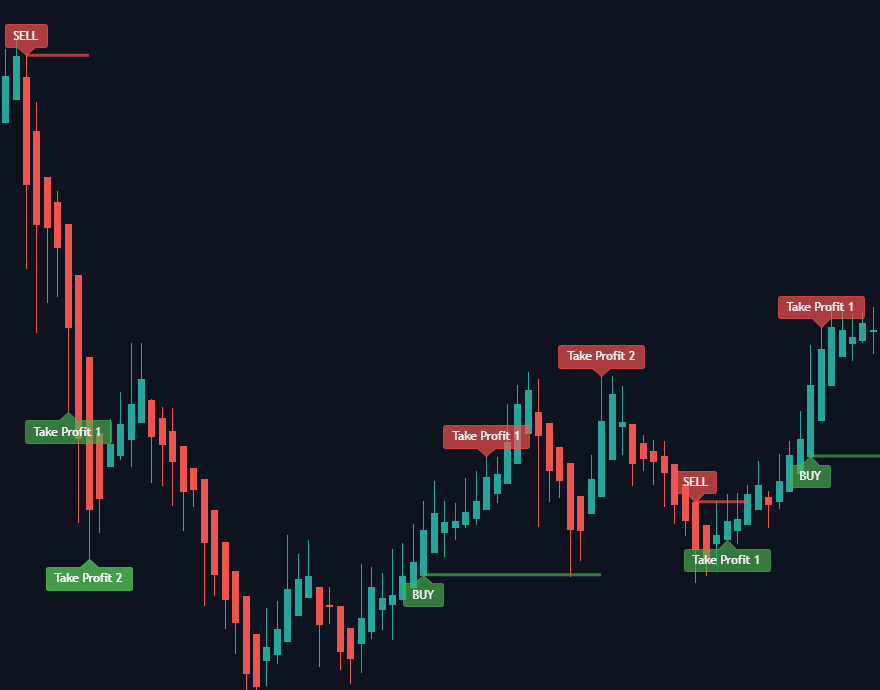
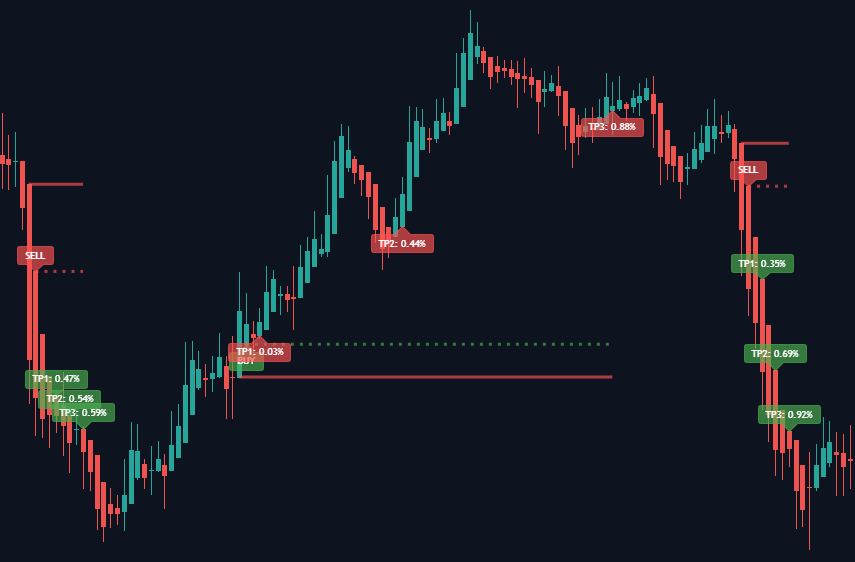
Update website for v3 Size down images, use imgur

Changed region(s): [[0.0, 0.0302, 1.0, 1.0]]

diff --git a/frontend/src/pages/HomePage.tsx b/frontend/src/pages/HomePage.tsx
@@ -1,8 +1,7 @@
 import React, { useContext, useEffect } from 'react';
-import { AnimationOnScroll } from 'react-animation-on-scroll';
 import styled from 'styled-components';
 import ReasonBlock from '../components/ReasonBlock';
-import { DISCORD_URL, NAME } from '../globals';
+import { DISCORD_URL, FREE_TRIALS_ACTIVE, NAME } from '../globals';
 import { Box, Button, Icon, IconEnum, ThemeContext } from '../Jet';
 
 
@@ -37,7 +36,7 @@ const PageStyle = styled.div.attrs((props: any) => props)`
   }
 
   .profits-img {
-    max-width: 700px;
+    max-width: 500px;
   }
 
   .brands img {
@@ -66,12 +65,6 @@ const PageStyle = styled.div.attrs((props: any) => props)`
       p {
         max-width: 100% !important;
       }
-    }
-
-    .stop-img {
-      max-height: 200px;
-      max-width: 350px;
-      width: auto;
     }
 
     .phone-img {
@@ -143,7 +136,8 @@ export const HomePage = () => {
             <h1 className="welcome-text text-primary">{NAME}</h1>
           </div>
 
-          <p>The most accurate real-time trading indicator.</p>
+          <p>The most accurate real time trading indicator.</p>
+          {FREE_TRIALS_ACTIVE && <p>Try it for free for 7 days.</p>}
 
           <Box spacing="1rem" className="action-buttons">
             <Button className="background-primary" onClick={() => window.location.href = '#/pricing'} large glowing><div style={{ color: theme.colors.text[0] }}>Get Access</div></Button>
@@ -157,8 +151,6 @@ export const HomePage = () => {
       </Box>
 
       <Box className="container" flexDirection="column" style={{ padding: '4rem 6rem', marginTop: '1rem', backgroundColor: theme.colors.background[1] }} justifyContent="space-around" alignItems="center" spacing="1.6rem">
-        <h5 className="pretitle trusted-title">Accurate - Consistent - Simple - Profitable</h5>
-
         <Box spacing="2rem" className="brands">
           <img src="/img/paypal.png" alt="PayPal" />
           <img src="/img/tradingview.png" alt="TradingView" />
@@ -169,62 +161,46 @@ export const HomePage = () => {
         <h1 className="reasons-text"><span className="text-primary">Reasons</span> to choose {NAME}</h1>
 
         <Box flexDirection="column" spacing="2rem">
-        <Box spacing="1rem" className="reason-sect">
-            <AnimationOnScroll animateIn="animate__fadeInLeft" animateOnce={true}>
-              <Box spacing="1rem" className="reason-sect">
-                <img className="reason-img phone-img" src="/img/phone.png" alt="Mobile Signals" style={{
-                  transform: 'perspective(700px) rotateX(10deg) rotateY(15deg)',
-                }} />
-                <ReasonBlock
-                  title="Simple"
-                  description={<p style={{ maxWidth: '25rem' }}>
-                    {NAME} will output precise entries through buy/sell signals, and profitable exits using take profit targets, all while limiting risk with tight built-in stop-losses. {NAME} can be used by traders of all experience levels. You can even trade from your phone while at work or school. 
-                  </p>}
-                  icon={IconEnum.phone}
-                />
-              </Box>
-            </AnimationOnScroll>
+          <Box spacing="1rem" className="reason-sect">
+            <img className="reason-img phone-img" src="/img/phone.png" alt="Mobile Signals" style={{
+              transform: 'perspective(700px) rotateX(10deg) rotateY(15deg)',
+            }} />
+            <ReasonBlock
+              title="Simple"
+              description={<p style={{ maxWidth: '25rem' }}>
+                {NAME} will display precise entries through buy/sell signals, and profitable exits using 3 different take profit targets, all while limiting risk with tight built-in stop-losses. {NAME} can be used by traders of all experience levels. You can even trade from your phone while at work or school. 
+              </p>}
+              icon={IconEnum.phone}
+            />
           </Box>
 
           <Box spacing="1rem" className="reason-sect">
-            <AnimationOnScroll animateIn="animate__fadeInRight" animateOnce={true}>
-              <Box spacing="1rem" className="reason-sect">
-                <img className="reason-img" src="/img/winrate.png" alt="Win rate" />
-                <ReasonBlock
-                  title="Accurate"
-                  description={<p style={{ maxWidth: '25rem' }}>
-                    {NAME} has an extremely high win rate and works in real time, unlike many indicators which lag or repaint. With an extremely tight stop loss and accurate take profit signals, the risk to reward ratio is unmatched by any other indicator.
-                  </p>}
-                  icon={IconEnum.money}
-                />
-              </Box>
-            </AnimationOnScroll>
+            <img className="reason-img" src="https://i.imgur.com/6nbgdW3.png" alt="Buy signal bull run" />
+            <ReasonBlock
+              title="Accurate"
+              description={<p style={{ maxWidth: '25rem' }}>
+                {NAME} has an extremely high win rate and works in real time, unlike many indicators which lag or repaint. With an extremely tight stop loss and accurate take profit signals, the risk to reward ratio is unmatched by any other indicator.
+              </p>}
+              icon={IconEnum.money}
+            />
           </Box>
           
           <Box spacing="1rem" className="reason-sect">
-            <AnimationOnScroll animateIn="animate__fadeInLeft" animateOnce={true}>
-              <Box spacing="1rem" className="reason-sect">
-                <img className="reason-img stop-img" src="/img/stop.png" style={{ objectFit: 'cover' }} alt="Stop loss" />
-                <ReasonBlock
-                  title="Honest"
-                  description={<p style={{ maxWidth: '25rem' }}>No indicator is perfect, and we believe in transparency. {NAME} will automatically turn failed signals gray if the stop loss was tripped, or no take profit targets were alerted. This is also why we calculate and show the win rate of the indicator on your chart.</p>}
-                  icon={IconEnum.checkmark}
-                />
-              </Box>
-            </AnimationOnScroll>
+            <img className="reason-img" src="https://i.imgur.com/TQXdpyj.png" alt="Sell signal with 3 take profit points" />
+            <ReasonBlock
+              title="Realistic"
+              description={<p style={{ maxWidth: '25rem' }}>{NAME} works in real time. The dotted red line you see is when the signal fired. Signals and take profit points fire on the next candle's <strong>open</strong>, not close, unlike many indicators that show unrealistic results. {NAME} does not retract signals, so once a candle opens and you see a signal, it is already confirmed for you, and you are not lagging by one candle.</p>}
+              icon={IconEnum.checkmark}
+            />
           </Box>
           
           <Box spacing="1rem" className="reason-sect">
-            <AnimationOnScroll animateIn="animate__fadeInRight" animateOnce={true}>
-              <Box spacing="1rem" className="reason-sect">
-                <img className="reason-img" src="/img/signals.png" alt="Trading signals" />
-                <ReasonBlock
-                  title="All Markets"
-                  description={<p style={{ maxWidth: '25rem' }}>{NAME}  works on any market (Forex, Crypto, Options, etc), stock, or timeframe. Perfect for any trader, regardless of their experience or trading style.</p>}
-                  icon={IconEnum.accessibility}
-                />
-              </Box>
-            </AnimationOnScroll>
+            <img className="reason-img" src="https://i.imgur.com/UNZWfXv.png" alt="Trading signals" />
+            <ReasonBlock
+              title="All Markets"
+              description={<p style={{ maxWidth: '25rem' }}>{NAME}  works on any market (Forex, Crypto, Options, etc), stock, or timeframe. Perfect for any trader, regardless of their experience or trading style.</p>}
+              icon={IconEnum.accessibility}
+            />
           </Box>
         </Box>
       </Box>
@@ -251,7 +227,7 @@ export const HomePage = () => {
 
           <Box alignItems="center" spacing="1rem">
             <Icon className="background-primary" icon={IconEnum.info} style={{ borderRadius: theme.rounded, padding: '0.4rem' }} size={36} />
-            <p>2 Take Profit Points</p>
+            <p>3 Take Profit Points</p>
           </Box>
 
           <Box alignItems="center" spacing="1rem">
@@ -272,7 +248,7 @@ export const HomePage = () => {
           </Box>
         </Box>
 
-        <img className="header-img" src="/img/signals.png" style={{ maxHeight: '350px', maxWidth: '653px' }} alt={NAME + "features"} />
+        <img className="header-img" src="https://i.imgur.com/RwluSq8.png" style={{ maxHeight: '330px', maxWidth: '550px' }} alt={NAME + " Features"} />
       </Box>
 
       <Box className="container" style={{ padding: '6rem', backgroundColor: theme.colors.background[1] }} spacing="4.6rem" justifyContent="center">

diff --git a/frontend/src/pages/TutorialPage.tsx b/frontend/src/pages/TutorialPage.tsx
@@ -55,11 +55,11 @@ export const TutorialPage = () => {
     <PageStyle theme={theme}>
       <Box className="container" flexDirection="column" spacing="1.6rem">
         <Box flexDirection="column">
-          <h1 className="title" style={{ textAlign: 'center' }}>{NAME} Tutorial/Starter Guide</h1>
-          <small style={{ fontSize: '1rem', marginBottom: '2rem', textAlign: 'center' }}>October 29, 2022</small>
+          <h1 className="title" style={{ textAlign: 'center' }}>{NAME} v3 Tutorial</h1>
+          <small style={{ fontSize: '1rem', marginBottom: '2rem', textAlign: 'center' }}>November 10, 2022</small>
         </Box>
 
-        <img className="main-img" src="/img/tutorial.png" alt={NAME + " Indicator"} style={{ maxWidth: '900px', margin: '0 auto' }} />
+        <img className="main-img" src="https://s3.tradingview.com/snapshots/i/iR0pjZRH.png" alt={NAME + " Indicator"} style={{ maxWidth: '900px', margin: '0 auto' }} />
 
         <h2>Locating {NAME}</h2>
         <p>To install {NAME} onto a chart, use <a href="https://www.tradingview.com/" target="_blank" rel="noreferrer">TradingView</a>. TradingView is a free charting platform that allows you to apply custom indicators and scripts to free real-time market data. Once you have created a free account, you can install {NAME} by following the steps below.
@@ -71,12 +71,12 @@ export const TutorialPage = () => {
         <p>{NAME} is built for any stock (SPY, NFLX, AMZN, etc.) and any timeframe. For the highest accuracy, you should use <u>Heikin Ashi</u> candles. To enable this on TradingView, click on the candle icon in the top center of the screen and select Heikin Ashi. For mobile users, click the three dots in the bottom right of a chart, and click "Chart Type"</p>
 
         <p>The indicator comes pre-configured with the most accurate settings, and you do not need to adjust them. If you do want to adjust them, the "Trend Length" and "Trend Sensitivity" control when buy and sell signals fire, and the "TP Sensitivity" controls when take profit signals fire. The "TP Magnitude" only affects take profit signals for <strong>sell</strong> orders.</p>
-        <img className="energy-cloud" src="https://i.imgur.com/Rvi4s8D.png" alt="Indicator Settings" style={{ maxWidth: '300px' }} />
+        <img className="energy-cloud" src="https://i.imgur.com/5A3BIdv.png" alt="Indicator Settings" style={{ maxWidth: '300px' }} />
 
         <h2>Signals</h2>
-        <p>{NAME} will give you three types of signals: buy, sell, and take profit. Buy signals are green, sell signals are red, and take profit signals color vary based on the current signal. The line near the signal is the stop loss line, If the price closes past the stop loss, the trade will turn gray and be cancelled out. A signal may also turn gray if no take profit signals were fired before a new signal fired.</p>
-        <p>The image below shows a sell trade that was stopped out.</p>
-        <img className="energy-cloud" src="/img/stop.png" alt="Stop loss" style={{ maxWidth: '200px' }} />
+        <p>{NAME} will give you three types of signals: buy, sell, and take profit. Buy signals are green, sell signals are red, and take profit signals color vary based on the current signal.<br /><br />The solid red line above/below the signal label is the stop loss line, If the price closes past the stop loss, the trade will turn gray and be cancelled out. A signal may also turn gray if no take profit signals were fired before a new signal fired. If you are following a trade and see it turn gray, sell all of your position immediately.<br /><br />The dotted line is the entry price, this shows the realistic point you would have seen the signal at, and entered the trade. It is also where profit is tracked from.</p>
+        <p>The image below shows a sell signal. The solid line is the stop loss (shorts/puts gain value when the stock falls, and lose value when the price rises, so for sell signals the stop loss is above the trade, and for buy signals it is below the trade) The red dotted line is the price at which the signal actually fired to the user, and where the take profit points calculate their profit from.</p>
+        <img src="https://i.imgur.com/zcwj9sn.png" alt="Stop loss" style={{ maxWidth: '400px' }} />
 
 
         <h2>Confirmation</h2>

diff --git a/frontend/public/index.html b/frontend/public/index.html
@@ -10,29 +10,16 @@
     <meta content="AlgoDemon - Accurate Buy & Sell Signals" property="og:title">
     <meta content="AlgoDemon - Accurate Buy & Sell Signals" property="twitter:title">
 
-    <meta content="AlgoDemon is the most accurate trading indicator for buy/sell signals. Best indicator to trade forex, crypto, options, or futures on any timeframe." name="description">
-    <meta content="AlgoDemon is the most accurate trading indicator for buy/sell signals. Best indicator to trade forex, crypto, options, or futures on any timeframe." property="og:description">
-    <meta content="AlgoDemon is the most accurate trading indicator for buy/sell signals. Best indicator to trade forex, crypto, options, or futures on any timeframe." property="twitter:description">
+    <meta content="AlgoDemon is the most accurate trading indicator for buy/sell signals. Best indicator to trade forex, crypto, options, or futures on any timeframe. Start your free trial today!" name="description">
+    <meta content="AlgoDemon is the most accurate trading indicator for buy/sell signals. Best indicator to trade forex, crypto, options, or futures on any timeframe. Start your free trial today!" property="og:description">
+    <meta content="AlgoDemon is the most accurate trading indicator for buy/sell signals. Best indicator to trade forex, crypto, options, or futures on any timeframe. Start your free trial today!" property="twitter:description">
 
     <meta name="keywords" content="buy and sell signals, options signals, forex signals, best buy and sell indicator, day trading indicators, algodemon" />
 
-    <meta content="https://i.imgur.com/vRCIhaW.png" property="og:image">
-    <meta content="https://i.imgur.com/vRCIhaW.png" property="twitter:image">
+    <meta content="https://i.imgur.com/Nq9EkQP.png" property="og:image">
+    <meta content="https://i.imgur.com/Nq9EkQP.png" property="twitter:image">
     <meta property="og:type" content="website">
     <meta content="summary_large_image" name="twitter:card">
-
-    <link rel="stylesheet" href="https://cdnjs.cloudflare.com/ajax/libs/animate.css/4.1.1/animate.min.css">
-
-    <!-- Google tag (gtag.js) - Google Analytics -->
-    <script async src="https://www.googletagmanager.com/gtag/js?id=G-DG2QTY62YQ">
-    </script>
-    <script>
-      window.dataLayer = window.dataLayer || [];
-      function gtag(){dataLayer.push(arguments);}
-      gtag('js', new Date());
-
-      gtag('config', 'G-DG2QTY62YQ');
-    </script>
   </head>
   <body>
     <noscript>You need to enable JavaScript to run this app.</noscript>

diff --git a/frontend/src/pages/PricingPage.tsx b/frontend/src/pages/PricingPage.tsx
@@ -163,7 +163,7 @@ export const PricingPage = () => {
           <div className="package-section">
             <div>
               <p>🟣 Buy &amp; Sell Signals</p>
-              <p>🟣 2 Take Profit Signals</p>
+              <p>🟣 3 Take Profit Signals</p>
               <p>🟣 Free Updates</p>
               <p>🟣 24/7 Support</p>
               <p>🟣 Lifetime Access</p>
@@ -257,16 +257,16 @@ export const PricingPage = () => {
         <h1 className="section-header" style={{ textAlign: 'left' }}>Frequently Asked Questions</h1>
 
         <Box flexDirection="column" spacing="2rem">
-          <FAQ title={`Does ${NAME} work for forex?`}>
-            Yes, the algorithm works for all markets and all timeframes.
+          <FAQ title={`What app do I use?`}>
+            To use the indicator, you will need a free <a href="https://tradingview.com/" rel="noopener noreferrer" target="_blank">TradingView</a> account. This is where you will be able to view price data, and buy/sell signals.
+          </FAQ>
+
+          <FAQ title="Does it work for the free version of TradingView?">
+            Yes, {NAME} works perfectly with the free version of TradingView.
           </FAQ>
 
           <FAQ title="How do I setup the algorithm?">
-            It is very simple to setup/use, please see the tutorial <a href="#/tutorial">here</a>.
-          </FAQ>
-
-          <FAQ title="Does it work for the free version of Tradingview?">
-            Yes, {NAME} works perfectly with the free version of TradingView.
+            Please see the tutorial on how to setup and use the algorithm <a href="#/tutorial">here</a>.
           </FAQ>
 
           <FAQ title={`How can I contact the ${NAME} team?`}>

diff --git a/frontend/src/components/Footer.tsx b/frontend/src/components/Footer.tsx
@@ -92,7 +92,6 @@ const Footer = () => {
           <div>
             <h1>Get Access Today</h1>
             <p>Get life time access for a one time payment</p>
-            <p>and up to 80% off using a referral code</p>
           </div>
           
           <Button className="access-btn" onClick={() => navigate('#/pricing')} block>
@@ -112,6 +111,7 @@ const Footer = () => {
           </Box>
 
           <Box flexDirection="column" spacing="0.6rem">
+            <a onClick={() => navigate('#/tutorial')}>Tutorial</a>
             <a onClick={() => navigate('#/affiliates')}>Affiliates</a>
             <a onClick={() => navigate('#/tos')}>Disclaimer / Terms</a>
           </Box>

diff --git a/frontend/src/globals.tsx b/frontend/src/globals.tsx
@@ -4,6 +4,7 @@ export const DISCORD_URL = 'https://discord.gg/J4ENkbshTE';
 export const THEME_COLOR = '#6200EE';
 export const PRICE = 124.95;//149.99;
 export const AFFILIATE_PERCENT = 10.0;
+export const FREE_TRIALS_ACTIVE = false;
 export const PAYPAL_CLIENT_ID = process.env.NODE_ENV === 'development'
   ? 'AXLSvOucX2MLY-m-dWu1BbCNF51FTJlKYqtkQuxPh93YPxj7iWxK874Cnpn7ddCFLaYJFR75xZO5Ed7H'
   : 'AffQ0kX6TJRQuZmK-n6E3CH1aJQuT3_x4xxtAFqTbLRhKFLZjFLQCdcmvN2qmvOuUNTAp72iu_QQVLPs';

diff --git a/frontend/src/pages/affiliates/AffiliatePage.tsx b/frontend/src/pages/affiliates/AffiliatePage.tsx
@@ -11,7 +11,7 @@ import { Box, Button, Icon, IconEnum, Progress, TextField, ThemeContext } from '
 const HeaderStyle = styled(Box)`
   height: 75vh;
   text-align: center;
-  background: url('/img/affiliate.jpg') no-repeat center / cover;
+  background: url('https://i.imgur.com/Mga7c1W.jpg') no-repeat center / cover;
 
   @media (max-width: 760px) {
     h1 {

diff --git a/frontend/src/components/Navbar.tsx b/frontend/src/components/Navbar.tsx
@@ -20,10 +20,10 @@ const links = [
     href: DISCORD_URL,
     newTab: true,
   },
-  {
+  /*{
     label: 'Affiliates',
     href: '/affiliates',
-  }
+  }*/
 ];
 
 const NavbarLinkStyle = styled.a.attrs((props: any) => props)`
